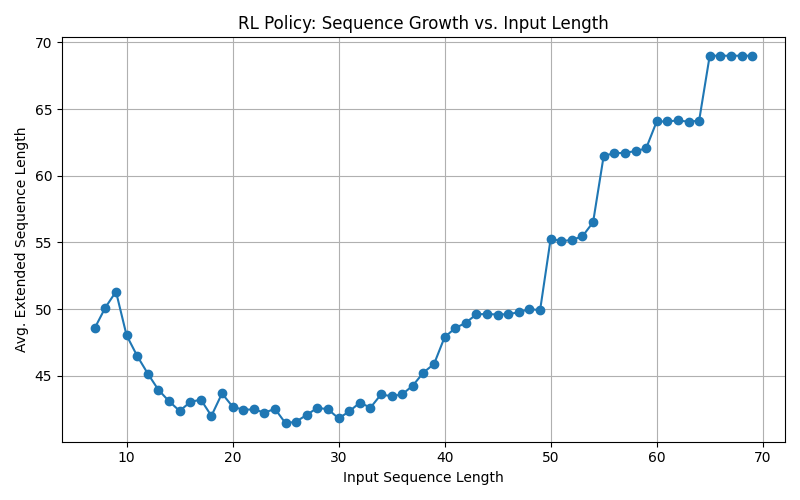
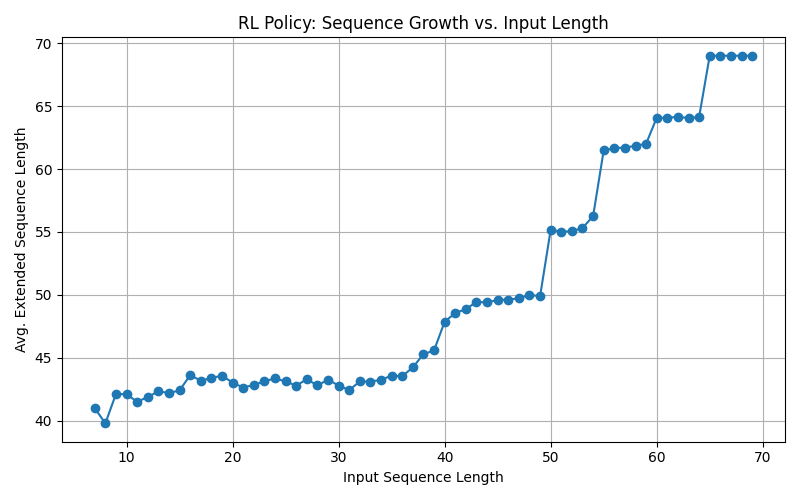
Added week14.pdf to main dir

diff --git a/Week14 (Final)/tex/week14.tex b/Week14 (Final)/tex/week14.tex
@@ -118,11 +118,26 @@ Each training example is a prefix of a sequence, and the target is the color of 
 number. After training the transformer locally the results were somehow decent. In figure \ref{fig:transformer} it shows the results of taking the average output length the transformer could reach for 500 trials for each input length from 6 to 70.
 \begin{figure}[h]
     \centering
-    \includegraphics[width=0.8\textwidth]{images/TransformerOnly.png}
+    \includegraphics[width=0.5\textwidth]{images/TransformerOnly.png}
     \caption{Transformer model results}
     \label{fig:transformer}
 \end{figure} 
-In this final week we tried to fine tune the transformer that has some good initial predictions using Reinforcement learning to try to improve its results. We ussed PPO
 
+In this final week we tried to fine tune the transformer that has some good initial predictions using Reinforcement learning to try to improve its results. We used actor-critic method to train the transformer. The actor is the transformer model, and the critic is a neural network
+that evaluates the action taken by the actor. The critic is trained to predict the expected reward for a given state-action pair, and the actor is trained to maximize the expected reward. The training process involves sampling actions from the actor, evaluating them using the critic, 
+and updating both networks based on the observed rewards. This approach allows the transformer to learn from its own predictions and improve over time.
 
+The results of the fine-tuning methods, shown in figure \ref{fig:transformerRL} didn't improve the original transformer model much, but it made it smoother in a way. We believe that this may come from the training of the original transformer that made it overfit the data. The RL fine-tuning was not able to generalize the model enough above the training data.
+
+\begin{figure}[h]
+    \centering
+    \includegraphics[width=0.5\textwidth]{images/RLresultsFineTuned.png}
+    \caption{Finetuned Transformer with RL results}
+    \label{fig:transformerRL}
+\end{figure}
+\subsection{Final Approach}
+One final approach we are willing to try even after this final report is using a decoder only transformer (like GPT) to generate the sequence iteratively while using causal masking to ensure that the model only attends to previous tokens in the sequence. This would allow the model to generate the sequence in a more natural way, similar to how humans would do it. We believe that this much better than the encoder-only approach since it would be natural to generate the sequence in a left-to-right manner.
+
+\section{Conclusion}
+In conclusion, we have explored various approaches to solve the Schur numbers problem. We started with a brute-force approach using Python, then moved to C++ and CUDA for parallelization. We introduced a novel encoding approach and a randomized Monte Carlo method to improve our results where we achieved our best results of reaching a sequence of length 113. Finally, we explored reinforcement learning and transformers to tackle the problem in a more sophisticated way. Although we did not achieve the desired results using Deep Learning, we learned a lot about the problem and the techniques we used. We hope that our work will inspire others to continue exploring this fascinating problem.
 \end{document}
